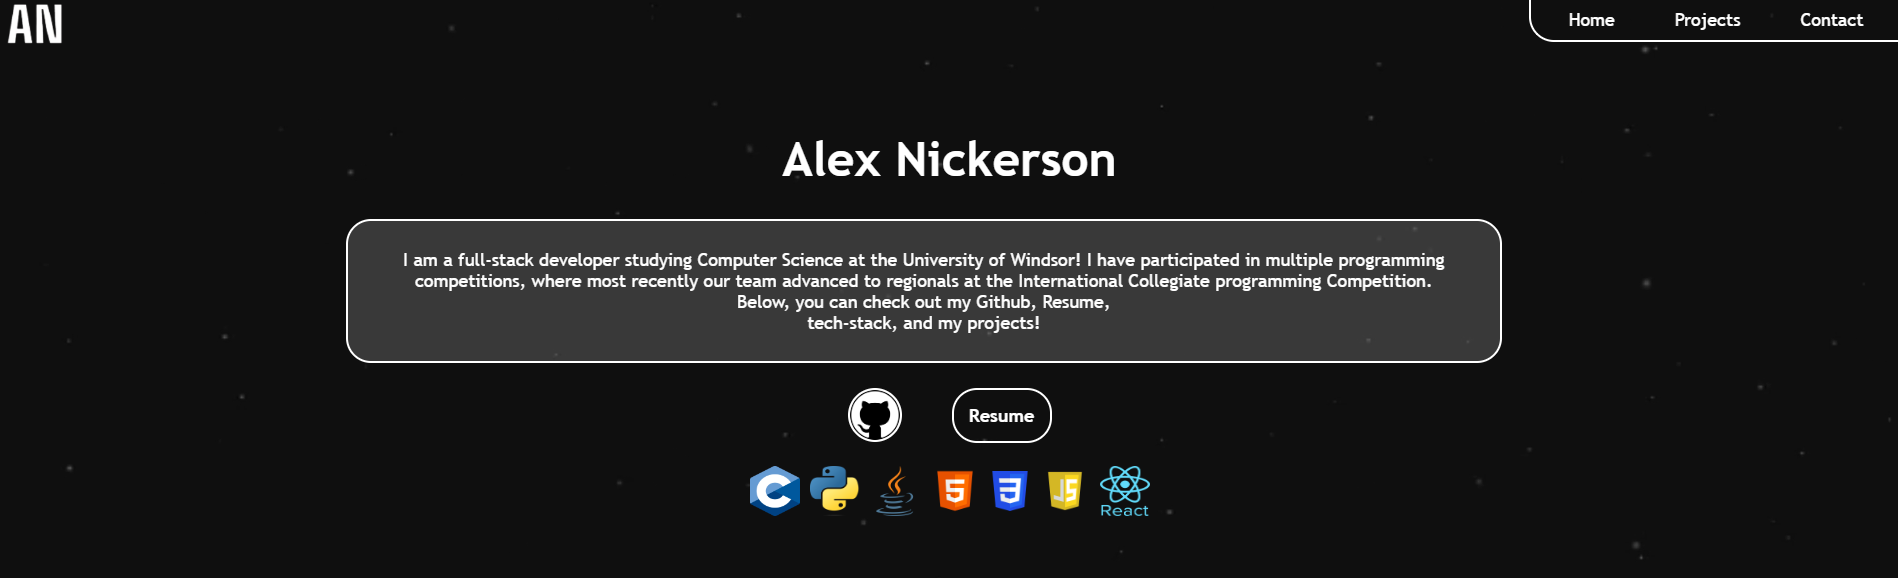
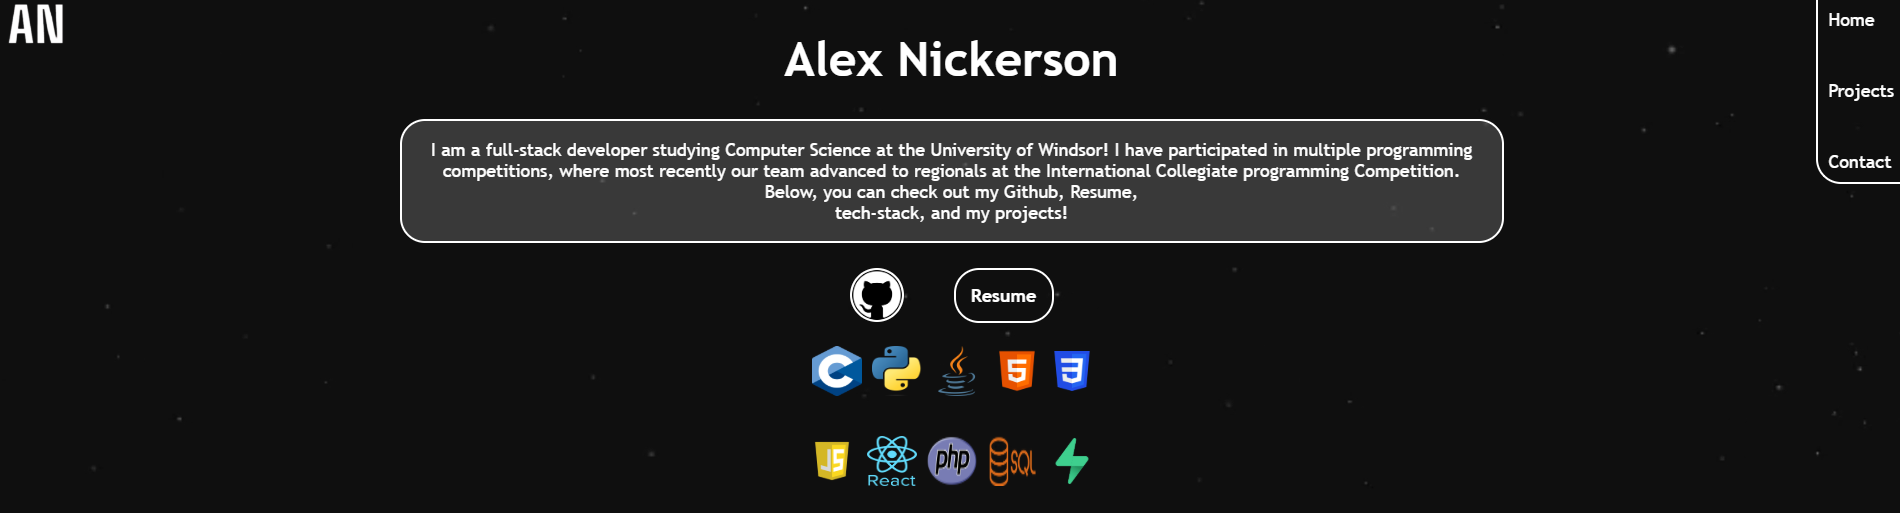
Added 2 new projects.

diff --git a/index.html b/index.html
@@ -172,6 +172,52 @@
                     </div>
                 </div>
             </div>
+            <div class="project">
+                <div class="project-about">
+                    <div class="about">
+                        <h2>Alex's Clothing</h2>
+                        <p>This was an academic project for my web design class where I learned the basics of PHP and connecting to an SQL database.
+                        </p>
+                    </div>
+                    <div class="buttons">
+                        <a href="https://github.com/alex-nickerson/Clothing-Website" target="_blank"><button><span></span>Code</button></a>
+                        <a href="https://alex-nickerson.github.io/Clothing-Website/" target="_blank"><button><span></span>Website</button></a>
+                    </div>
+                    <div class="images">
+                        <img src="images/html-logo.png" alt="html logo">
+                        <img src="images/css-logo.png" alt="css logo" class="project-css">
+                        <img src="images/javascript-logo.png" alt="javascript logo">
+                        <img src="images/PHP-logo.png" alt="react logo">
+                        <img src="images/Sql_logo.png" alt="react logo">
+                    </div>
+                </div>
+                <div class="project-img">
+                    <img src="images/clothing-landing.png" alt="landing page for clothing website">
+                </div>
+            </div>
+            <div class="project">
+                <div class="project-img">
+                    <img src="images/str-landing.png" alt="landing page for str beats">
+                </div>
+                <div class="project-about">
+                    <div class="about">
+                        <h2>StR Beats</h2>
+                        <p>In this project I used Vite + React to build a responsive frontend that displays data queried from my Supabase database.
+                        </p>
+                    </div>
+                    <div class="buttons">
+                        <a href="https://github.com/alex-nickerson/StR-Beats" target="_blank"><button><span></span>Code</button></a>
+                        <a href="https://str-beats.vercel.app/" target="_blank"><button><span></span>Website</button></a>
+                    </div>
+                    <div class="images">
+                        <img src="images/html-logo.png" alt="html logo">
+                        <img src="images/css-logo.png" alt="css logo" class="project-css">
+                        <img src="images/javascript-logo.png" alt="javascript logo">
+                        <img src="images/react-logo.png" alt="react logo">
+                        <img src="images/supabase-logo.png" alt="react logo">
+                    </div>
+                </div>
+            </div>
         </div>
     </div>
     <hr>

diff --git a/styles.css b/styles.css
@@ -175,7 +175,7 @@ hr{
 
 .projects{
     display: flex;
-    flex-direction: column;
+    flex-direction: column-reverse;
     max-width: 1100px;
     width: 80vw;
 }
@@ -216,6 +216,7 @@ hr{
 .project-about img{
     width: 75px;
     height: 75px;
+    margin-top: 5px;
 }
 
 .project-about .about{

diff --git a/mobile.css b/mobile.css
@@ -23,7 +23,7 @@
 
     .projects{
         display: flex;
-        flex-direction: column;
+        flex-direction: column-reverse;
         max-width: 1100px;
         width: 80vw;
     }
